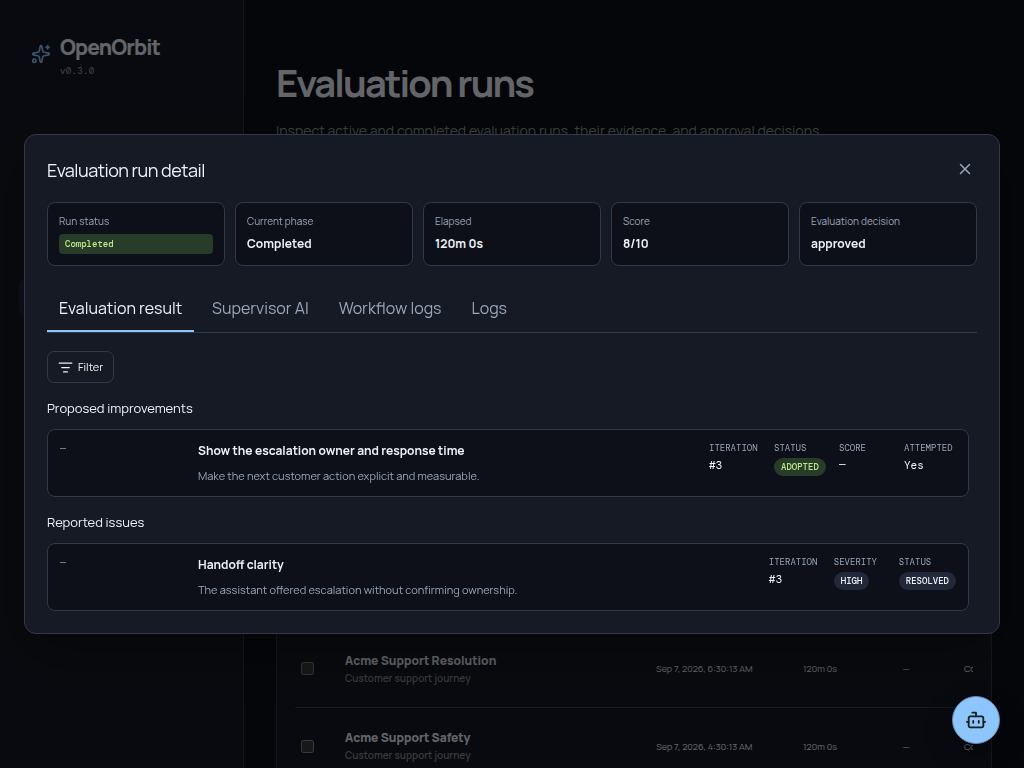
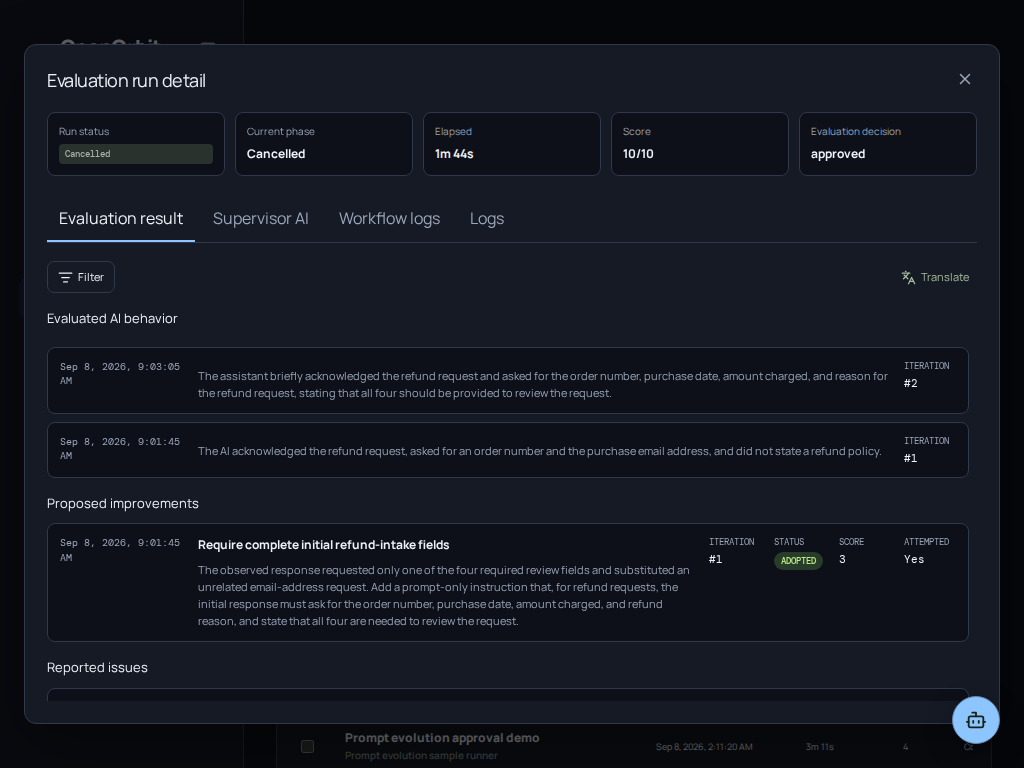
docs: refresh product tour media

diff --git a/README.md b/README.md
@@ -6,6 +6,13 @@ OpenOrbit does not use AI merely to automate work. It automates the operating cy
 
 Run the control room locally, keep the operational record in your own AppData, and decide which changes deserve approval.
 
+## See OpenOrbit in action
+
+Start with a Quick Start, watch the evaluation loop take shape, and review
+evidence-backed improvements in one place.
+
+![OpenOrbit dashboard opening the Agent self-improvement Quick Start](docs/images/openorbit-quick-start.gif)
+
 ## Why OpenOrbit?
 
 An AI feature can look healthy in a demo and still regress after a prompt, model, tool, or product change. OpenOrbit gives that feature a repeatable operating loop rather than a one-off test:
@@ -40,24 +47,16 @@ OpenOrbit is designed around the information an operator needs at each stage:
 | **Evaluation run detail** | What happened in each phase, and what evidence supports the result? |
 | **Improvement results** | Are feedback, decisions, and scores actually improving over time? |
 
-The screenshots below follow a customer-support AI through recurring quality
-evaluation, an evidence-backed failed handoff, and a proposed improvement.
+The screenshots below follow a customer-support AI through its retained
+evaluation evidence and improvement cycle.
 
-### Monitor a healthy AI system
+### See what the evaluated AI actually did
 
-Start with the operating picture: completed evaluations, active work, errors,
-and the latest supervisor feedback. This lets an operator spot a regression
-before opening an individual run.
+Open a retained run to review the behavior observed from the evaluated AI at
+each iteration. Then compare that behavior with the proposed improvement and
+the evidence supporting it.
 
-![OpenOrbit dashboard showing successful evaluations, zero errors, and supervisor feedback](docs/images/dashboard-healthy.png)
-
-### Review a successful evaluation result
-
-Open a retained run to see the supervisor score and decision beside the
-improvements and issues supported by that evaluation. Every proposal remains
-connected to the iteration that produced it.
-
-![OpenOrbit evaluation-run detail with a completed result, approved decision, and adopted improvement](docs/images/evaluation-result-approved.png)
+![OpenOrbit Evaluation result showing observed target-AI behavior across two iterations and an adopted prompt improvement](docs/images/evaluation-result-approved.png)
 
 ### Review evidence across the improvement cycle
 
